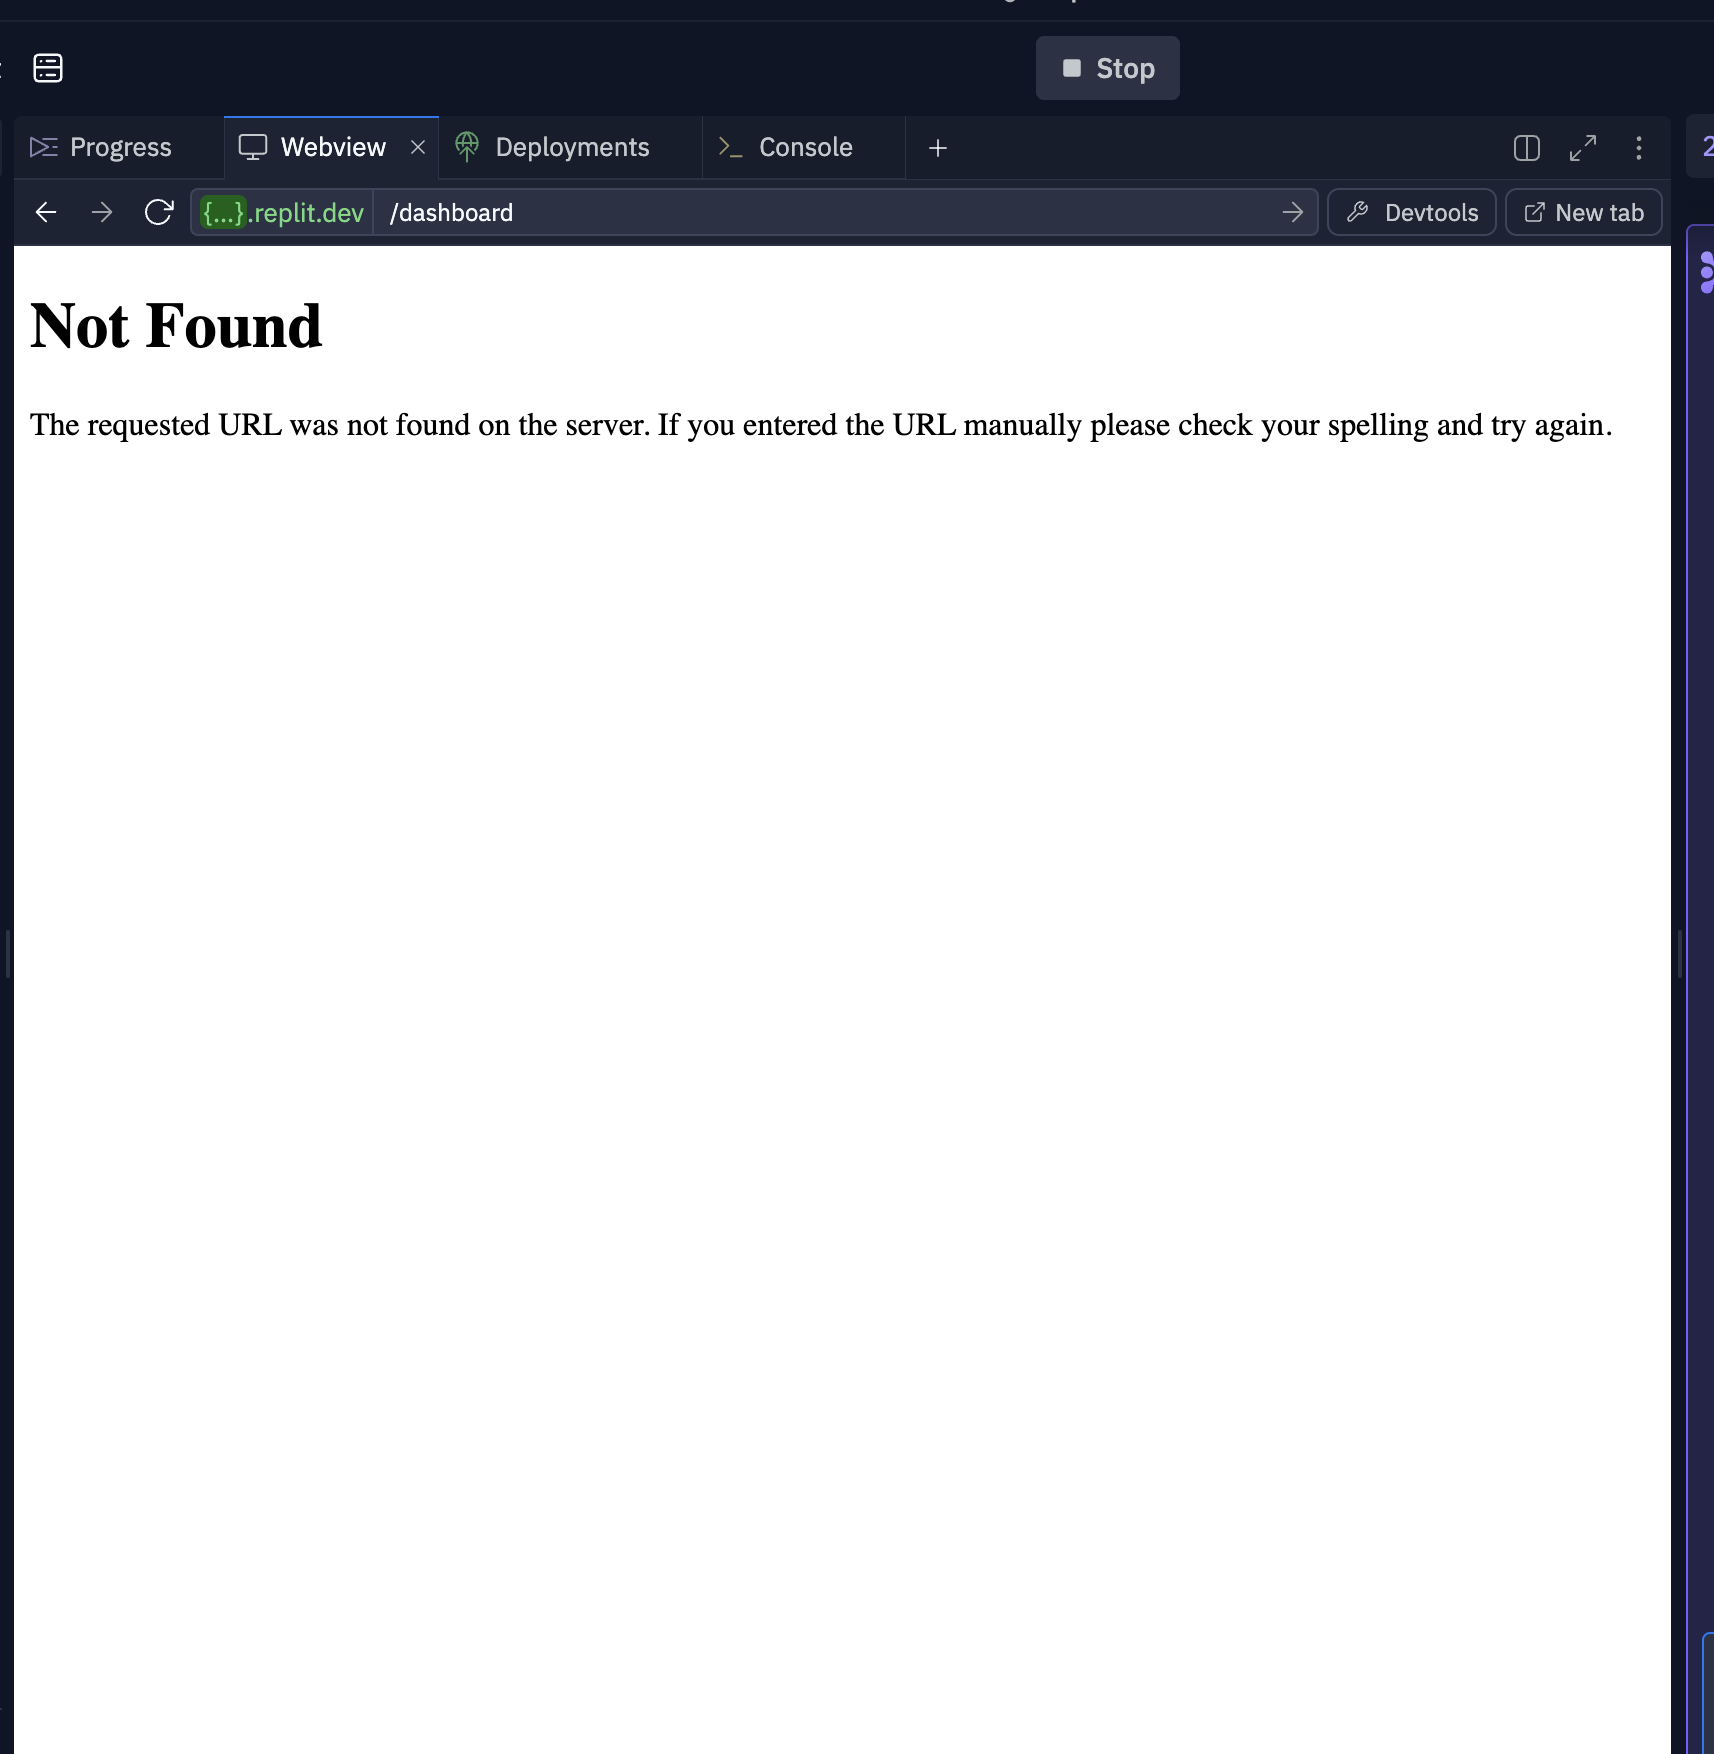
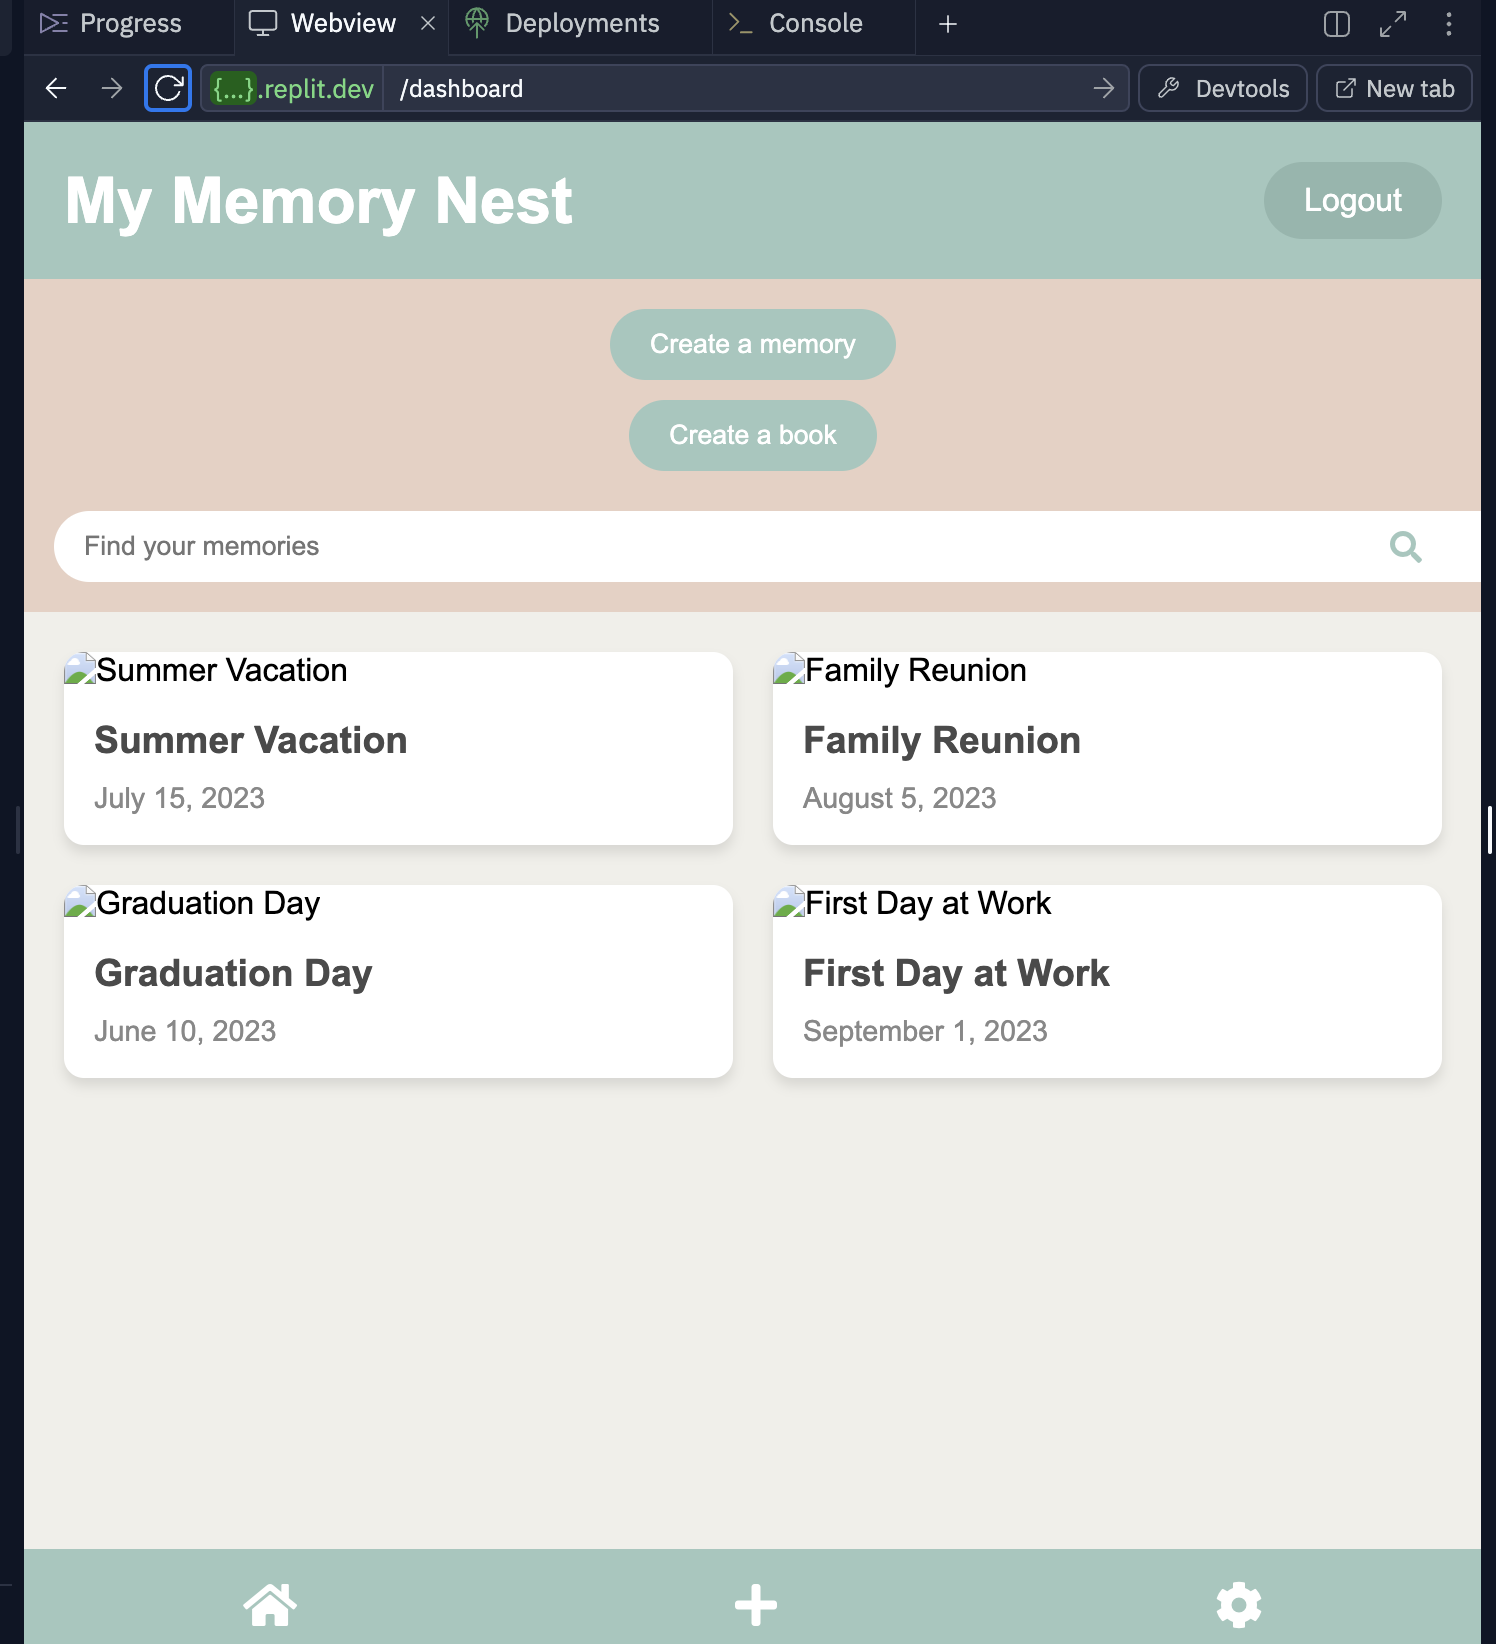
Agent step completed: Adjust dashboard layout: move create buttons and search outside container

diff --git a/static/css/style.css b/static/css/style.css
@@ -1,18 +1,22 @@
-/* Existing styles... */
+/* General styles */
+body {
+    font-family: Arial, sans-serif;
+    margin: 0;
+    padding: 0;
+    background-color: #F0EFE9;
+}
 
 /* Dashboard styles */
 .dashboard-container {
     display: flex;
     flex-direction: column;
     min-height: 100vh;
-    background-color: #F0EFE9;
 }
 
 header {
     background-color: #A2C7BE;
     padding: 20px;
     display: flex;
-    flex-wrap: wrap;
     justify-content: space-between;
     align-items: center;
 }
@@ -20,34 +24,145 @@ header {
 header h1 {
     color: white;
     margin: 0;
-    flex-basis: 100%;
-    margin-bottom: 15px;
+}
+
+.logout-button {
+    background-color: #91B6AD;
+    color: white;
+    text-decoration: none;
+    padding: 10px 20px;
+    border-radius: 20px;
+    transition: background-color 0.3s;
+}
+
+.logout-button:hover {
+    background-color: #7A9E95;
+}
+
+.action-bar {
+    background-color: #E8D0C3;
+    padding: 15px;
+    display: flex;
+    justify-content: space-between;
+    align-items: center;
 }
 
 .button-container {
     display: flex;
+    align-items: center;
     gap: 10px;
-    margin-bottom: 15px;
 }
 
 .action-button {
-    background-color: #E8D0C3;
-    color: #4A4A4A;
+    background-color: #A2C7BE;
+    color: white;
     border: none;
     padding: 10px 20px;
-    border-radius: 5px;
+    border-radius: 20px;
     cursor: pointer;
     transition: background-color 0.3s;
 }
 
 .action-button:hover {
-    background-color: #D9B6A3;
+    background-color: #91B6AD;
 }
 
 .search-container {
     position: relative;
-    width: 40%;
-    margin: 0 20px;
+    width: 50%;
+    max-width: 400px;
 }
 
-/* Rest of the existing styles... */
+.search-input {
+    width: 100%;
+    padding: 10px 40px 10px 15px;
+    border: none;
+    border-radius: 20px;
+    background-color: white;
+}
+
+.search-icon {
+    position: absolute;
+    right: 15px;
+    top: 50%;
+    transform: translateY(-50%);
+    color: #A2C7BE;
+}
+
+main {
+    flex-grow: 1;
+    padding: 20px;
+}
+
+.memory-grid {
+    display: grid;
+    grid-template-columns: repeat(auto-fill, minmax(250px, 1fr));
+    gap: 20px;
+}
+
+.memory-card {
+    background-color: white;
+    border-radius: 10px;
+    overflow: hidden;
+    box-shadow: 0 4px 6px rgba(0, 0, 0, 0.1);
+}
+
+.memory-card img {
+    width: 100%;
+    height: 150px;
+    object-fit: cover;
+}
+
+.memory-card .info {
+    padding: 15px;
+}
+
+.memory-card h3 {
+    margin: 0 0 10px 0;
+    color: #4A4A4A;
+}
+
+.memory-card p {
+    margin: 0;
+    color: #888;
+    font-size: 0.9em;
+}
+
+.bottom-toolbar {
+    background-color: #A2C7BE;
+    display: flex;
+    justify-content: space-around;
+    padding: 15px 0;
+    position: sticky;
+    bottom: 0;
+}
+
+.toolbar-icon {
+    color: white;
+    font-size: 1.5em;
+    text-decoration: none;
+}
+
+/* Responsive design */
+@media (max-width: 768px) {
+    .action-bar {
+        flex-direction: column;
+        align-items: stretch;
+    }
+
+    .button-container {
+        flex-direction: column;
+        width: 100%;
+        margin-bottom: 10px;
+    }
+
+    .search-container {
+        width: 100%;
+        max-width: none;
+    }
+
+    .action-button {
+        width: 100%;
+        margin-bottom: 10px;
+    }
+}

diff --git a/static/js/dashboard.js b/static/js/dashboard.js
@@ -5,10 +5,10 @@ document.addEventListener('DOMContentLoaded', function() {
 
     // Sample data for memory cards (replace with actual data from the server)
     const memories = [
-        { title: "Summer Vacation", date: "July 15, 2023", image: "/static/images/placeholder.jpg" },
-        { title: "Family Reunion", date: "August 5, 2023", image: "/static/images/placeholder.jpg" },
-        { title: "Graduation Day", date: "June 10, 2023", image: "/static/images/placeholder.jpg" },
-        { title: "First Day at Work", date: "September 1, 2023", image: "/static/images/placeholder.jpg" }
+        { title: "Summer Vacation", date: "July 15, 2023", image: "https://placehold.co/600x400/A2C7BE/ffffff?text=Summer+Vacation" },
+        { title: "Family Reunion", date: "August 5, 2023", image: "https://placehold.co/600x400/A2C7BE/ffffff?text=Family+Reunion" },
+        { title: "Graduation Day", date: "June 10, 2023", image: "https://placehold.co/600x400/A2C7BE/ffffff?text=Graduation+Day" },
+        { title: "First Day at Work", date: "September 1, 2023", image: "https://placehold.co/600x400/A2C7BE/ffffff?text=First+Day+at+Work" }
     ];
 
     function createMemoryCard(memory) {

diff --git a/templates/dashboard.html b/templates/dashboard.html
@@ -11,6 +11,9 @@
     <div class="dashboard-container">
         <header>
             <h1>My Memory Nest</h1>
+            <a href="{{ url_for('logout') }}" class="logout-button">Logout</a>
+        </header>
+        <div class="action-bar">
             <div class="button-container">
                 <button id="createMemory" class="action-button">Create a memory</button>
                 <button id="createBook" class="action-button">Create a book</button>
@@ -19,10 +22,7 @@
                 <input type="text" id="searchBox" placeholder="Find your memories" class="search-input">
                 <i class="fas fa-search search-icon"></i>
             </div>
-            <nav>
-                <a href="{{ url_for('logout') }}" class="logout-button">Logout</a>
-            </nav>
-        </header>
+        </div>
         <main>
             <section class="memory-grid" id="memoryGrid">
                 <!-- Memory cards will be dynamically added here -->
